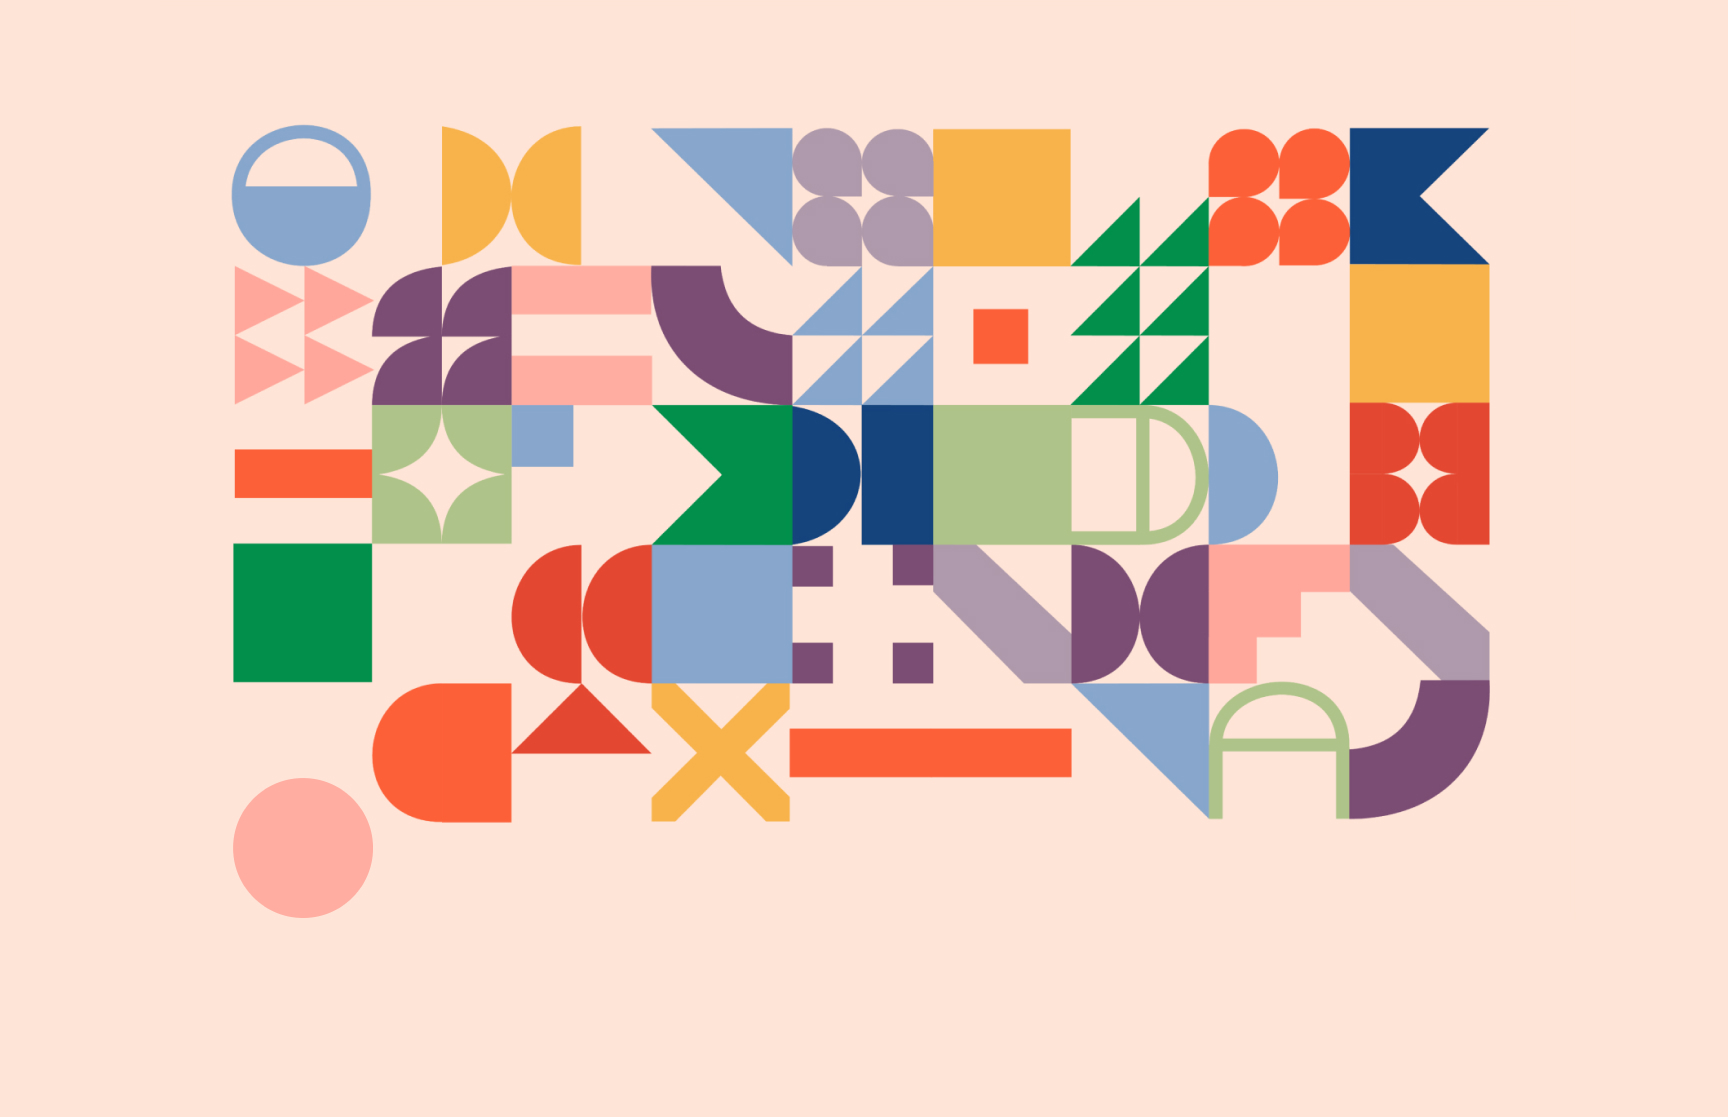
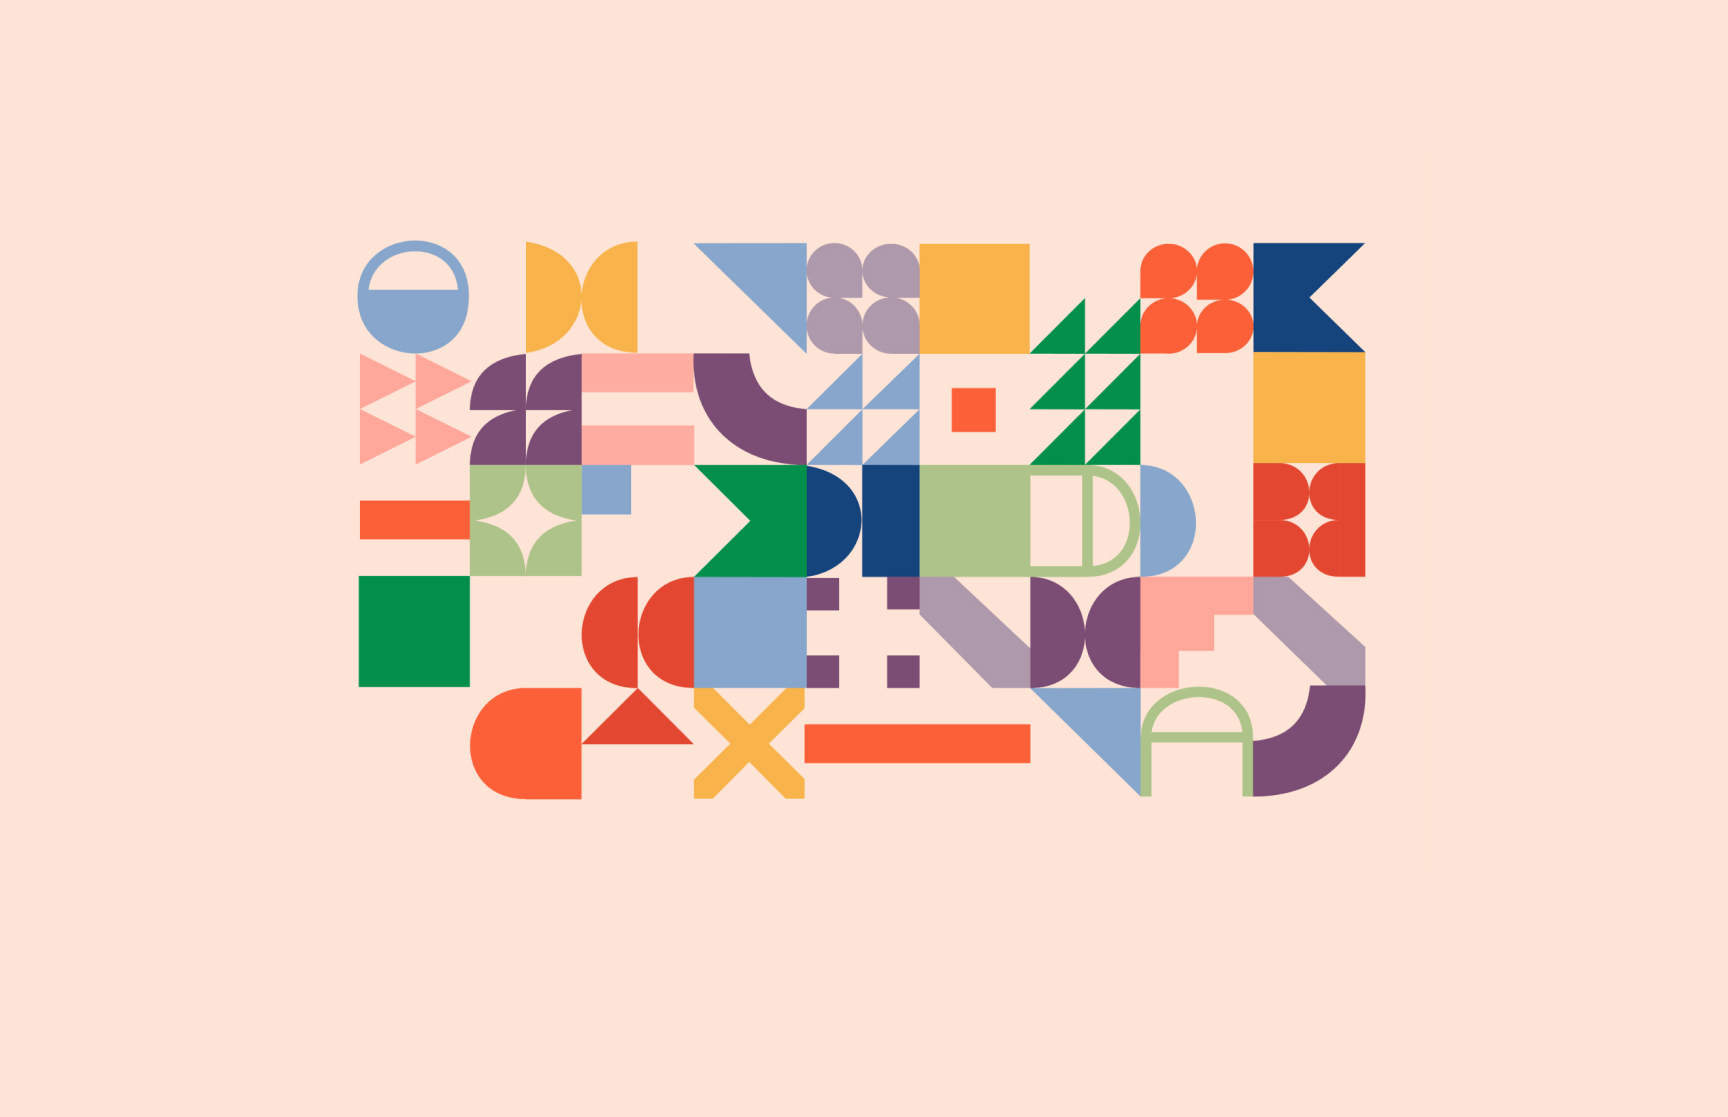
firts commit

Changed region(s): [[0.125, 0.0913, 0.875, 0.8218]]

diff --git a/assets/css/mainscss.css b/assets/css/mainscss.css
@@ -1,1 +1,1 @@
-@media only screen and (orientation: portrait){#content{display:none}#turn{display:block}}@media only screen and (orientation: landscape){#content{display:flex}#turn{display:none}}#content{height:100%;width:100%;align-items:center;justify-content:center}body{background-color:#fee4d6;height:100vh;display:flex;align-items:center;justify-content:center;overflow:hidden;position:relative}.popup1{display:flex;flex-direction:column;gap:8%;justify-content:center;align-items:center;text-align:center;margin:auto;background-color:#000;color:#fff;width:55%;height:55%;border-radius:50px;font-family:Arial,Helvetica,sans-serif;z-index:3;position:absolute}#introduccion{display:none}#introduccion.opened{display:flex}.popupshapes{display:flex;flex-direction:row;flex-flow:wrap;justify-content:center;align-items:center;text-align:center;gap:3%}#introduccion2{display:none}#introduccion2.opened{display:flex}.shapes{display:flex;flex-direction:column;justify-content:center;align-items:center;text-align:center;gap:5px;margin:3%;margin-bottom:0%}.pantallainicio{display:flex}.pantallainicio.close{display:none}.texto1{font-size:45px}.texto2{font-size:25px}.botones{padding:10px 15px;background-color:#000;border-radius:50px;border:3px solid #fff;color:#fff}.popup2{display:flex;flex-direction:row;gap:30px;justify-content:center;align-items:center;margin:auto;background-color:#000;color:#fff;width:55%;height:55%;border-radius:50px;font-family:Arial,Helvetica,sans-serif;z-index:3;position:absolute}.popup2texto{display:flex;flex-direction:column;justify-content:center;align-items:center;gap:10px;max-width:35%}.encuentracirculo{display:none}.encuentracirculo.opened{display:flex}.background1{display:none}.background1.opened{display:block;position:relative}.circle{position:absolute;z-index:2;max-width:12.9%;max-height:12.9%;right:30.8%;bottom:57%}.contador{position:absolute;z-index:2;right:7%;top:20%}.texto3{color:#fff;font-size:25px;font-family:Arial,Helvetica,sans-serif;font-weight:bolder}.circle img{width:100%;height:100%;-o-object-fit:cover;object-fit:cover}.error{display:none}.error.opened{display:flex}.encuentratriangulo{display:none}.encuentratriangulo.opened{display:flex}.background2{display:none}.background2.opened{display:block;position:relative}.triangle{position:absolute;z-index:2;max-width:12.9%;max-height:12.9%;right:30.9%;bottom:76.6%}.triangle img{width:100%;height:100%;-o-object-fit:cover;object-fit:cover}.encuentracuadrado{display:none}.encuentracuadrado.opened{display:flex}.background3{display:none}.background3.opened{display:block;position:relative}.square{position:absolute;z-index:2;max-width:12.9%;max-height:12.9%;right:69%;bottom:18%}.square img{width:100%;height:100%;-o-object-fit:cover;object-fit:cover}.encuentratriangulorectangulo{display:none}.encuentratriangulorectangulo.opened{display:flex}.background4{display:none}.background4.opened{display:block;position:relative}.righttriangle{position:absolute;z-index:2;max-width:12.9%;max-height:12.9%;right:43.55%;bottom:18%}.righttriangle img{width:100%;height:100%;-o-object-fit:cover;object-fit:cover}.encuentratrianguloisosceles{display:none}.encuentratrianguloisosceles.opened{display:flex}.background5{display:none}.background5.opened{display:block;position:relative}.isoscelestriangle{position:absolute;z-index:2;max-width:6.3%;max-height:12.9%;right:56.4%;bottom:56.6%}.isoscelestriangle img{width:100%;height:100%;-o-object-fit:cover;object-fit:cover}.encuentracirculo2{display:none}.encuentracirculo2.opened{display:flex}.background6{display:none}.background6.opened{display:block;position:relative}.circle2{position:absolute;z-index:2;max-width:10.2%;max-height:10.2%;right:85%;bottom:16%}.circle2 img{width:100%;height:100%;-o-object-fit:cover;object-fit:cover}.encuentratriangulo2{display:none}.encuentratriangulo2.opened{display:flex}.background7{display:none}.background7.opened{display:block;position:relative}.triangle2{position:absolute;z-index:2;max-width:5%;max-height:5%;right:50.2%;bottom:59.15%}.triangle2 img{width:100%;height:100%;-o-object-fit:cover;object-fit:cover}.encuentracuadrado2{display:none}.encuentracuadrado2.opened{display:flex}.background8{display:none}.background8.opened{display:block;position:relative}.square2{position:absolute;z-index:2;max-width:5.2%;max-height:5.2%;right:7%;bottom:16.5%}.square2 img{width:100%;height:100%;-o-object-fit:cover;object-fit:cover}.encuentratriangulorectangulo2{display:none}.encuentratriangulorectangulo2.opened{display:flex}.background9{display:none}.background9.opened{display:block;position:relative}.righttriangle2{position:absolute;z-index:2;max-width:10.4%;max-height:10.4%;right:84.9%;bottom:46%}.righttriangle2 img{width:100%;height:100%;-o-object-fit:cover;object-fit:cover}.encuentratrianguloisosceles2{display:none}.encuentratrianguloisosceles2.opened{display:flex}.background10{display:none}.background10.opened{display:block;position:relative}.isoscelestriangle2{position:absolute;z-index:2;max-width:10.2%;max-height:10.2%;right:54.9%;bottom:25.8%}.isoscelestriangle2 img{width:100%;height:100%;-o-object-fit:cover;object-fit:cover}.end{display:none}.end.opened{display:flex}/*# sourceMappingURL=mainscss.css.map */
+@media only screen and (orientation: portrait){#content{display:none}#turn{display:block}}@media only screen and (orientation: landscape){#content{display:flex}#turn{display:none}}#content{height:100%;width:100%;align-items:center;justify-content:center}body{background-color:#fee4d6;height:100vh;display:flex;align-items:center;justify-content:center;overflow:hidden;position:relative}.popup1{display:flex;flex-direction:column;gap:8%;justify-content:center;align-items:center;text-align:center;margin:auto;background-color:#000;color:#fff;width:55%;height:55%;border-radius:50px;font-family:Arial,Helvetica,sans-serif;z-index:3;position:absolute}#introduccion{display:none}#introduccion.opened{display:flex}.popupshapes{display:flex;flex-direction:row;flex-flow:wrap;justify-content:center;align-items:center;text-align:center;gap:3%}#introduccion2{display:none}#introduccion2.opened{display:flex}.shapes{display:flex;flex-direction:column;justify-content:center;align-items:center;text-align:center;gap:5px;margin:3%;margin-bottom:0%}.pantallainicio{display:flex}.pantallainicio.close{display:none}.texto1{font-size:45px}.texto2{font-size:25px}.botones{padding:10px 15px;background-color:#000;border-radius:50px;border:3px solid #fff;color:#fff}.popup2{display:flex;flex-direction:row;gap:30px;justify-content:center;align-items:center;margin:auto;background-color:#000;color:#fff;width:55%;height:55%;border-radius:50px;font-family:Arial,Helvetica,sans-serif;z-index:3;position:absolute}.popup2texto{display:flex;flex-direction:column;justify-content:center;align-items:center;gap:10px;max-width:35%}.encuentracirculo{display:none}.encuentracirculo.opened{display:flex}.background1{display:none}.background1.opened{display:block;position:relative}.circle{position:absolute;z-index:2;max-width:10.5%;max-height:10.5%;right:34.3%;bottom:55.8%}.contador{position:absolute;z-index:2;right:7%;top:20%}.texto3{color:#fff;font-size:25px;font-family:Arial,Helvetica,sans-serif;font-weight:bolder}.circle img{width:100%;height:100%;-o-object-fit:cover;object-fit:cover}.error{display:none}.error.opened{display:flex}.encuentratriangulo{display:none}.encuentratriangulo.opened{display:flex}.background2{display:none}.background2.opened{display:block;position:relative}.triangle{position:absolute;z-index:2;max-width:10.5%;max-height:10.5%;right:34.3%;bottom:71.85%}.triangle img{width:100%;height:100%;-o-object-fit:cover;object-fit:cover}.encuentracuadrado{display:none}.encuentracuadrado.opened{display:flex}.background3{display:none}.background3.opened{display:block;position:relative}.square{position:absolute;z-index:2;max-width:10.4%;max-height:10.4%;right:65.5%;bottom:24%}.square img{width:100%;height:100%;-o-object-fit:cover;object-fit:cover}.encuentratriangulorectangulo{display:none}.encuentratriangulorectangulo.opened{display:flex}.background4{display:none}.background4.opened{display:block;position:relative}.righttriangle{position:absolute;z-index:2;max-width:10.5%;max-height:10.5%;right:44.7%;bottom:24%}.righttriangle img{width:100%;height:100%;-o-object-fit:cover;object-fit:cover}.encuentratrianguloisosceles{display:none}.encuentratrianguloisosceles.opened{display:flex}.background5{display:none}.background5.opened{display:block;position:relative}.isoscelestriangle{position:absolute;z-index:2;max-width:5.25%;max-height:10.5%;right:55.1%;bottom:55.8%}.isoscelestriangle img{width:100%;height:100%;-o-object-fit:cover;object-fit:cover}.encuentracirculo2{display:none}.encuentracirculo2.opened{display:flex}.background6{display:none}.background6.opened{display:block;position:relative}.circle2{position:absolute;z-index:2;max-width:10.2%;max-height:10.2%;right:85%;bottom:16%}.circle2 img{width:100%;height:100%;-o-object-fit:cover;object-fit:cover}.encuentratriangulo2{display:none}.encuentratriangulo2.opened{display:flex}.background7{display:none}.background7.opened{display:block;position:relative}.triangle2{position:absolute;z-index:2;max-width:5%;max-height:5%;right:50.2%;bottom:59.15%}.triangle2 img{width:100%;height:100%;-o-object-fit:cover;object-fit:cover}.encuentracuadrado2{display:none}.encuentracuadrado2.opened{display:flex}.background8{display:none}.background8.opened{display:block;position:relative}.square2{position:absolute;z-index:2;max-width:5.2%;max-height:5.2%;right:7%;bottom:16.5%}.square2 img{width:100%;height:100%;-o-object-fit:cover;object-fit:cover}.encuentratriangulorectangulo2{display:none}.encuentratriangulorectangulo2.opened{display:flex}.background9{display:none}.background9.opened{display:block;position:relative}.righttriangle2{position:absolute;z-index:2;max-width:10.4%;max-height:10.4%;right:84.9%;bottom:46%}.righttriangle2 img{width:100%;height:100%;-o-object-fit:cover;object-fit:cover}.encuentratrianguloisosceles2{display:none}.encuentratrianguloisosceles2.opened{display:flex}.background10{display:none}.background10.opened{display:block;position:relative}.isoscelestriangle2{position:absolute;z-index:2;max-width:10.2%;max-height:10.2%;right:54.9%;bottom:25.8%}.isoscelestriangle2 img{width:100%;height:100%;-o-object-fit:cover;object-fit:cover}.end{display:none}.end.opened{display:flex}/*# sourceMappingURL=mainscss.css.map */

diff --git a/assets/scss/mainscss.scss b/assets/scss/mainscss.scss
@@ -177,10 +177,10 @@ body {
 .circle {
     position: absolute;
     z-index: 2;
-    max-width: 12.9%;
-    max-height: 12.9%;
-    right: 30.8%;
-    bottom: 57%;
+    max-width: 10.5%;
+    max-height: 10.5%;
+    right: 34.3%;
+    bottom: 55.8%;
 
 
 
@@ -238,10 +238,10 @@ body {
 .triangle {
     position: absolute;
     z-index: 2;
-    max-width: 12.9%;
-    max-height: 12.9%;
-    right: 30.9%;
-    bottom: 76.6%;
+    max-width: 10.5%;
+    max-height: 10.5%;
+    right: 34.3%;
+    bottom: 71.85%;
 
 
 }
@@ -278,10 +278,10 @@ body {
 .square {
     position: absolute;
     z-index: 2;
-    max-width: 12.9%;
-    max-height: 12.9%;
-    right: 69%;
-    bottom: 18%;
+    max-width: 10.4%;
+    max-height: 10.4%;
+    right: 65.5%;
+    bottom: 24%;
 
 
 }
@@ -317,10 +317,10 @@ body {
 .righttriangle {
     position: absolute;
     z-index: 2;
-    max-width: 12.9%;
-    max-height: 12.9%;
-    right: 43.55%;
-    bottom: 18%;
+    max-width: 10.5%;
+    max-height: 10.5%;
+    right: 44.7%;
+    bottom: 24%;
 
 
 }
@@ -356,10 +356,10 @@ body {
 .isoscelestriangle {
     position: absolute;
     z-index: 2;
-    max-width: 6.3%;
-    max-height: 12.9%;
-    right: 56.4%;
-    bottom: 56.6%;
+    max-width:5.25%;
+    max-height: 10.5%;
+    right: 55.1%;
+    bottom: 55.8%;
 
 
 }
